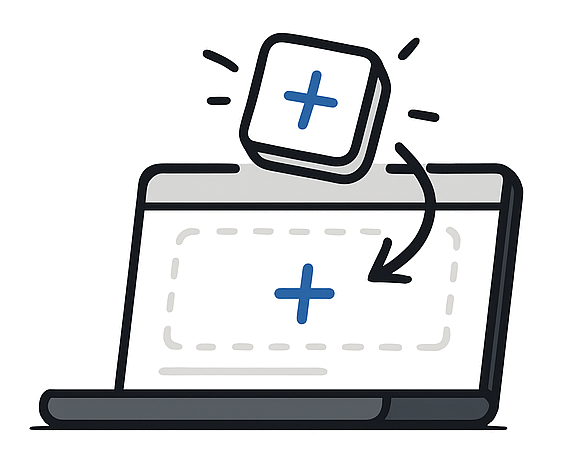
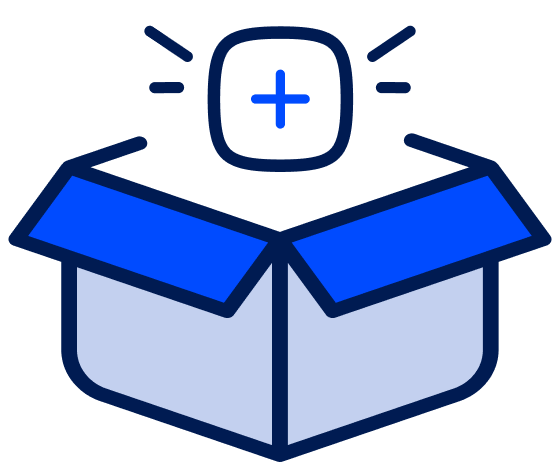
update empty image and option border fix

diff --git a/web/features/settings/components/style-customizer/bundle-layout/volume/volume-calculator.tsx b/web/features/settings/components/style-customizer/bundle-layout/volume/volume-calculator.tsx
@@ -170,7 +170,13 @@ export function VolumeCalculator({
             )}
 
             {unitPrice > 0 && (
-                <div className="rb-vol-calc__calc-row" data-calc-total="">
+                <div className="rb-vol-calc__calc-row" data-calc-total=""
+                     style={{
+                         border: styles.productCardBorder
+                             ? `1px solid ${styles.borderColor}`
+                             : "none",
+                     }}
+                >
                     <span className="rb-vol-calc__calc-label">{labels?.volumeTotalCostLabel || PREVIEW_LABELS.volumeTotalCostLabel}</span>
                     <div className="rb-vol-calc__calc-value-wrap">
                         <span
@@ -188,7 +194,12 @@ export function VolumeCalculator({
             {unitPrice > 0 && displayOptions?.showSavings && (
                 <div
                     className="rb-vol-calc__calc-row rb-vol-calc__calc-row--savings"
-                    style={{ display: hasSavings ? undefined : "none" }}
+                    style={{
+                        display: hasSavings ? undefined : "none",
+                        border: styles.productCardBorder
+                            ? `1px solid ${styles.borderColor}`
+                            : "none",
+                    }}
                 >
                     <span className="rb-vol-calc__calc-label">{labels?.volumeYouSaveLabel || PREVIEW_LABELS.volumeYouSaveLabel}</span>
                     <div className="rb-vol-calc__calc-value-wrap">
@@ -211,7 +222,12 @@ export function VolumeCalculator({
                 <div
                     className="rb-vol-calc__calc-row"
                     data-calc-cpu=""
-                    style={{ display: hasSavings ? undefined : "none" }}
+                    style={{
+                        display: hasSavings ? undefined : "none",
+                        border: styles.productCardBorder
+                            ? `1px solid ${styles.borderColor}`
+                            : "none",
+                    }}
                 >
                     <span className="rb-vol-calc__calc-label">
                         {labels?.volumeCostPerUnitLabel || PREVIEW_LABELS.volumeCostPerUnitLabel}

diff --git a/web/widgets/src/scss/layout/volume-table.scss b/web/widgets/src/scss/layout/volume-table.scss
@@ -861,12 +861,11 @@
         justify-content: space-between;
         gap: 12px;
         padding: 14px 16px;
-        border: 1px solid var(--rb-border-color, #e5e7eb);
+        border: var(--rb-card-border);
         border-radius: var(--rb-border-radius, 8px);
         background: var(--rb-product-bg-color, #fff);
 
         &--savings {
-            border: 1px solid var(--rb-savings-color, #16a34a);
             background: color-mix(in srgb, var(--rb-savings-color, #16a34a) 6%, var(--rb-background-color, #fff));
         }
     }

diff --git a/web/styles/components/volume-preview.css b/web/styles/components/volume-preview.css
@@ -724,7 +724,6 @@
 }
 
 .rb-vol-calc__calc-row--savings {
-    border: 1px solid var(--rb-savings-color, #16a34a);
     background: color-mix(in srgb, var(--rb-savings-color, #16a34a) 6%, var(--rb-background-color, #fff));
 }
 